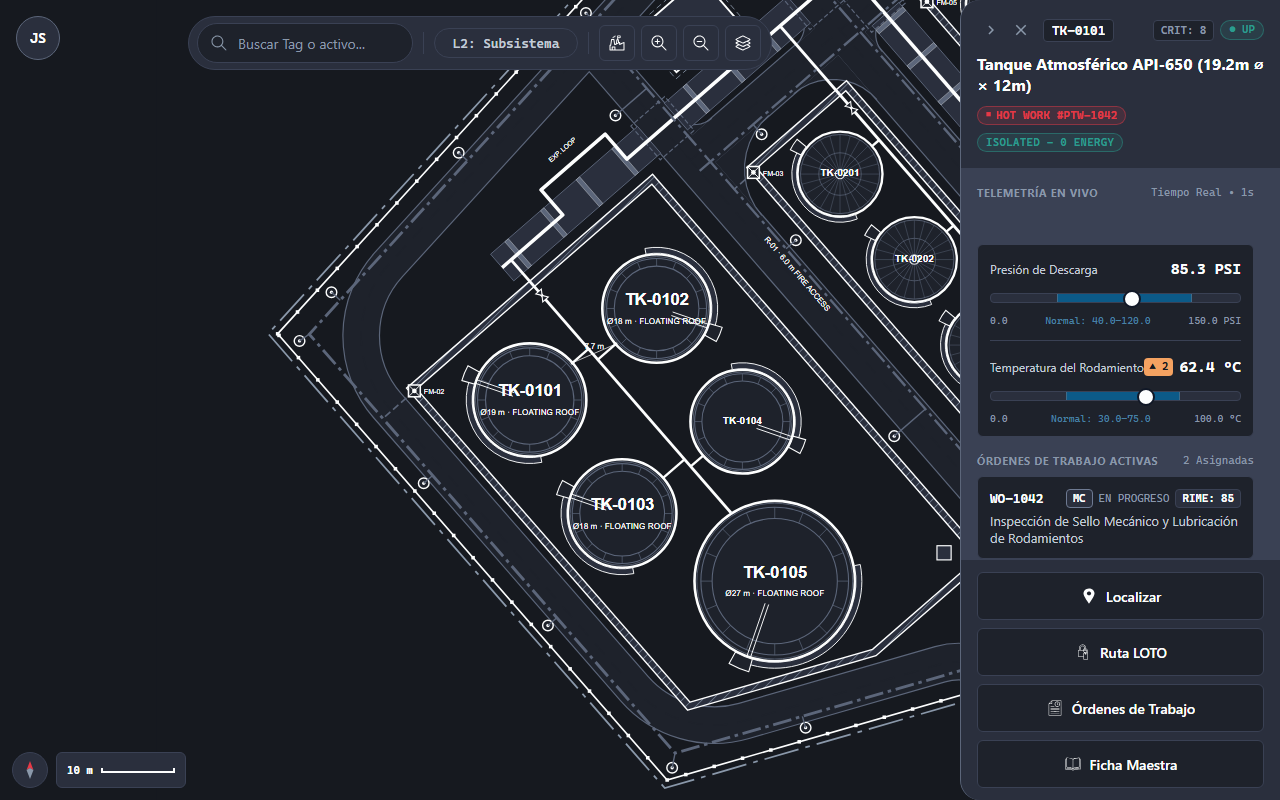
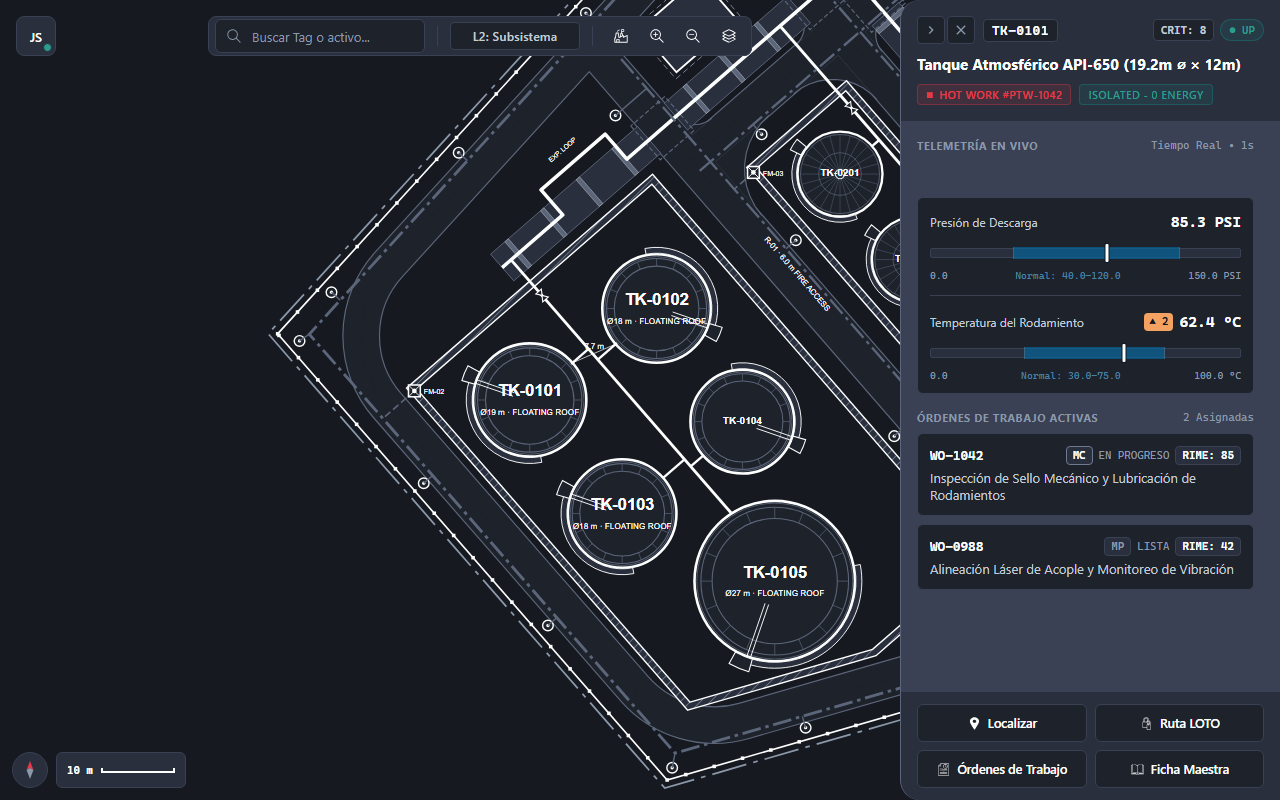
docs(ui-ux): synchronize 380px drawer token, updated captures, and modernized faceplate ergonomics

diff --git a/ui-ux/assets/tokens.css b/ui-ux/assets/tokens.css
@@ -77,7 +77,7 @@
   --dt-layout-sidebar-width-collapsed: 64px;
   --dt-layout-table-row-height: 44px;
   --dt-layout-drawer-width-desktop: 440px;
-  --dt-layout-drawer-width-tablet: 320px;
+  --dt-layout-drawer-width-tablet: 380px;
   --dt-layout-drawer-width: var(--dt-layout-drawer-width-tablet);
   --dt-layout-modal-width-desktop: 640px;
   --dt-layout-modal-width-tablet: 580px;

diff --git a/ui-ux/DT-UI-DS-DOC-001.md b/ui-ux/DT-UI-DS-DOC-001.md
@@ -81,7 +81,7 @@ To guarantee predictability in responsive split-screen viewports, transactional 
 | --dt-layout-sidebar-width-collapsed      | 64px                                   | --dt-breakpoint-lg ($1280\text{px} - 1919\text{px}$)         | Collapsed icon-only navigation rail width on compact desktop and tablet landscape viewports ([DT-UI-NAV-DOC-001](DT-UI-NAV-DOC-001.md), [SCR-MTTO-026](screens/mtto/SCR-MTTO-026.md)). |
 | --dt-layout-table-row-height             | 44px                                   | Shared Component                                             | Ergonomic dense table row height for enterprise workstation grids ([SCR-MTTO-026](screens/mtto/SCR-MTTO-026.md)). |
 | --dt-layout-drawer-width-desktop         | 440px                                  | --dt-breakpoint-xl ($\ge 1920\text{px}$)                     | Fixed lateral inspection drawer on high-resolution monitors; preserves multi-column tabular visibility and backlog split views. |
-| --dt-layout-drawer-width-tablet          | 320px                                  | --dt-breakpoint-lg ($1280\text{px} - 1919\text{px}$)         | Fixed contextual side panel on tablet landscape; strictly enforces $\ge 75\%$ viewport allocation ($960\text{px}$) for the 2D spatial Digital Twin canvas. |
+| --dt-layout-drawer-width-tablet          | 380px                                  | --dt-breakpoint-lg ($1280\text{px} - 1919\text{px}$)         | Fixed contextual side panel on tablet landscape; preserves $\ge 70\%$ viewport allocation ($900\text{px}$) for the 2D spatial Digital Twin canvas. |
 | --dt-layout-drawer-width                 | --dt-layout-drawer-width-tablet        | Responsive Semantic Base                                     | Semantic drawer width variable; defaults to tablet dimension and dynamically resolves to `--dt-layout-drawer-width-desktop` on desktop displays ($\ge 1920\text{px}$). |
 | --dt-layout-modal-width-desktop          | 640px                                  | --dt-breakpoint-xl ($\ge 1920\text{px}$)                     | Centered transactional modal dialog width on desktop workstations ([SCR-INV-025](screens/inv/SCR-INV-025.md), [SCR-MTTO-026](screens/mtto/SCR-MTTO-026.md)). |
 | --dt-layout-modal-width-tablet           | 580px                                  | --dt-breakpoint-lg ($1280\text{px} - 1919\text{px}$)         | Centered modal dialog width on industrial tablet landscape viewports. |
@@ -316,7 +316,7 @@ In compliance with the principle of **Controllability** (ISO 9241-110:2020, Clau
 1. **Exclusive Gesture Prohibition:** It is forbidden to condition the deployment, collapse, or closure of a container exclusively to continuous drag or swipe gestures (*swipe/drag*).
 2. **Dedicated Physical Trigger:** Every container must integrate an explicit interactive element (handle or touch header) whose touch area dimensions inherit the `--dt-touch-target-mobile` token.
 3. **Discrete Switching:** A simple press (*tap*) on this element must sequentially toggle between the defined states for the component (Collapsed, Partial View, Expanded), guaranteeing operation without requiring fine motor skills.
-4. **Responsive Orientation Transition:** In tablet landscape (`--dt-breakpoint-lg`), sliding bottom sheets transition to fixed right-hand drawers sized by `--dt-layout-drawer-width`, preserving $\ge 75\%$ viewport allocation for the 2D spatial canvas.
+4. **Responsive Orientation Transition:** In tablet landscape (`--dt-breakpoint-lg`), sliding bottom sheets transition to fixed right-hand drawers sized by `--dt-layout-drawer-width`, preserving $\ge 70\%$ viewport allocation for the 2D spatial canvas.
 
 ### 6.4. Iconography and Redundant Symbology Standards
 

diff --git a/ui-ux/screens/vis/SCR-VIS-033.md b/ui-ux/screens/vis/SCR-VIS-033.md
@@ -346,7 +346,7 @@ public enum WorkOrderStatus
 | Viewport / Breakpoint | Layout Organization | Ergonomic Rules |
 | :--- | :--- | :--- |
 | **Desktop Workstation**<br>($\ge 1920\text{px}$, `--dt-breakpoint-xl`) | Canvas `CMP-01` occupies full workspace. Context Container `CMP-05` docks as fixed lateral sidebar (sized by `--dt-layout-drawer-width-desktop`, $100\%$ height, elevation `--dt-z-overlay-card`) on the right flank. | Mouse wheel focal zoom around $(cx, cy)$; middle-click canvas pan; asset centering offsets leftward by $50\%$ of active drawer width (§5.2.3). |
-| **Industrial Tablet Landscape**<br>($1280\text{px} - 1919\text{px}$, `--dt-breakpoint-lg` / $1280\times 800\text{px}$) | Canvas `CMP-01` occupies left workspace; Context Container `CMP-05` docks as lateral panel (sized by `--dt-layout-drawer-width-tablet`, strictly preserving $\ge 75\%$ canvas visibility). Viewport toolbar `CMP-02` centers over visible canvas. | Touch pan threshold ($4\text{px}$); touch targets comply with `--dt-touch-target-mobile`; chevron toggle minimizes panel to peek trigger (`--dt-layout-bottom-sheet-peek-height`); asset centering offsets leftward by $50\%$ of active drawer width (§5.2.3). |
+| **Industrial Tablet Landscape**<br>($1280\text{px} - 1919\text{px}$, `--dt-breakpoint-lg` / $1280\times 800\text{px}$) | Canvas `CMP-01` occupies left workspace; Context Container `CMP-05` docks as lateral panel (sized by `--dt-layout-drawer-width-tablet`, $380\text{px}$, strictly preserving $\ge 70\%$ canvas visibility). Viewport toolbar `CMP-02` centers over visible canvas. | Touch pan threshold ($4\text{px}$); touch targets comply with `--dt-touch-target-mobile`; chevron toggle minimizes panel to peek trigger (`--dt-layout-bottom-sheet-peek-height`); asset centering offsets leftward by $50\%$ of active drawer width (§5.2.3). |
 | **Industrial Tablet Portrait**<br>($768\text{px} - 1279\text{px}$, `--dt-breakpoint-md` / $800\times 1280\text{px}$) | Canvas `CMP-01` occupies full viewport. Context Container `CMP-05` operates as **Bottom Sheet** (elevation `--dt-z-drawer-sidebar`), initializing at natural content height (`--dt-layout-bottom-sheet-height-initial`). | Gesture physics and snap hysteresis thresholds detailed in §5.2.8; discrete single-tap toggling between natural and expanded height. |
 
 ---
